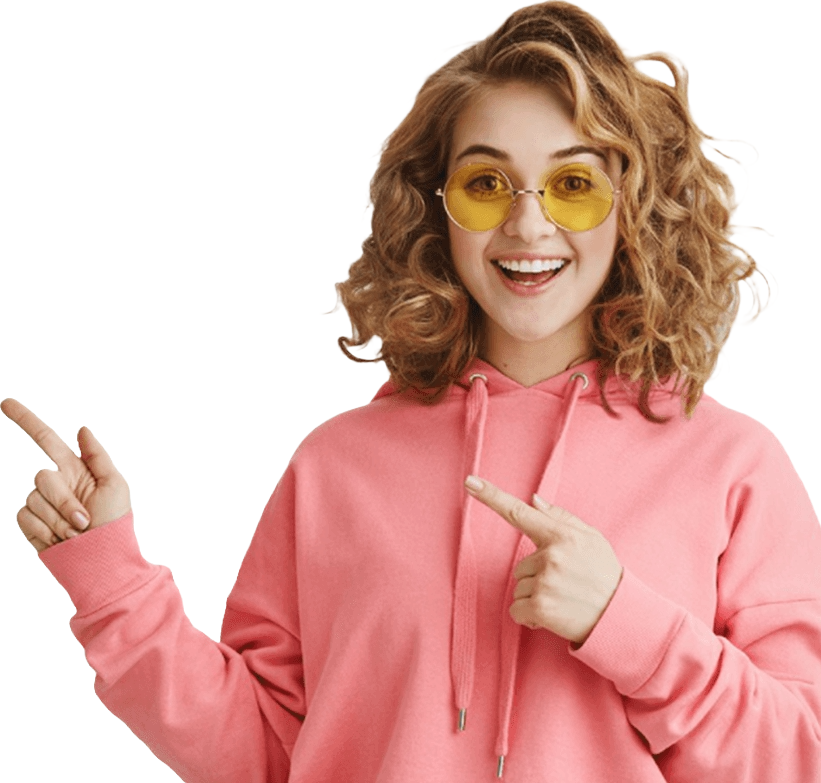
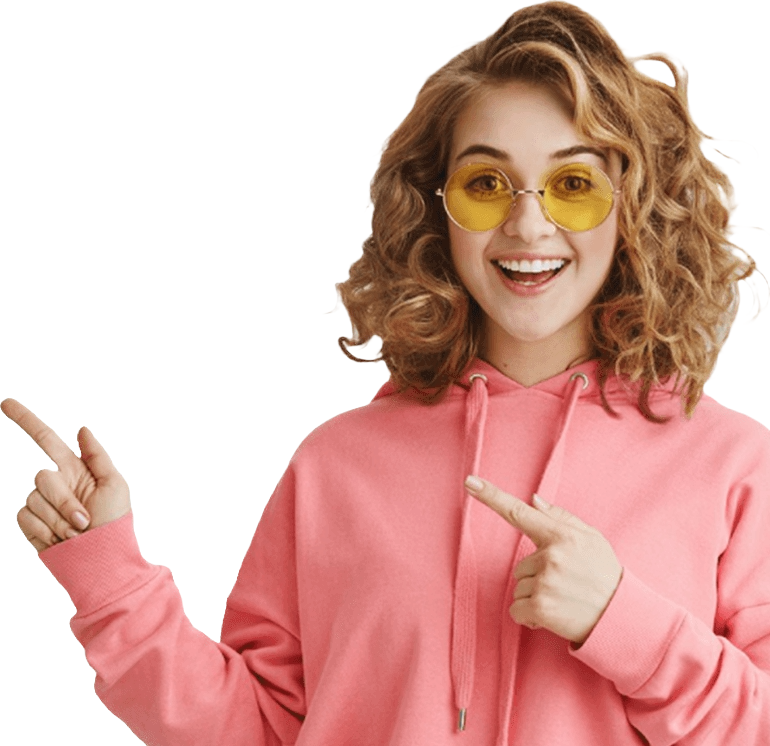
ProductCarousel style changed

diff --git a/frontend/src/components/ProductCarousel.js b/frontend/src/components/ProductCarousel.js
@@ -3,7 +3,7 @@ import { Carousel, Image, Col, Row, Container } from 'react-bootstrap';
 import Message from './Message';
 import Loader from './Loader';
 import { useGetTopProductsQuery } from '../slices/productsApiSlice';
-import homeImg from '../assets/home.png';
+import homeImg from '../assets/home2.png';
 
 const ProductCarousel = () => {
   const { data: products, isLoading, error } = useGetTopProductsQuery();
@@ -20,17 +20,17 @@ const ProductCarousel = () => {
         }}
         className="py-2"
       >
-        <Col lg={4} xs={5}>
+        <Col lg={4} xs={6}>
           <Carousel pause="hover">
             {products.map((product) => (
               <Carousel.Item key={product._id}>
                 <Link to={`/product/${product._id}`}>
                   <Image src={product.image} alt={product.name} fluid />
                   <Carousel.Caption className="carousel-caption pt-0">
-                    <h3 className="text-white text-right">
+                    <h4>
                       <span className="d-none d-md-block">{product.name}</span>{' '}
                       ${product.price}
-                    </h3>
+                    </h4>
                   </Carousel.Caption>
                 </Link>
               </Carousel.Item>
@@ -38,13 +38,12 @@ const ProductCarousel = () => {
           </Carousel>
         </Col>
 
-        <Col className="carousel-right h1" style={{ color: '#ebeff1' }}>
+        <Col className="carousel-right h1 " style={{ color: '#ebeff1' }}>
             <div>Sale 20% OFF</div>
             <div>New Arrivals</div>
           <Image
             src={homeImg}
             className=" position-absolute w-50 "
-            style={{ right: '-0', top: '0.5rem', width: '35rem' }}
           />
         </Col>
       </Row>

diff --git a/backend/data/products.js b/backend/data/products.js
@@ -8,8 +8,8 @@ const products = [
     category: "Electronics",
     price: 89.99,
     countInStock: 10,
-    rating: 4.5,
-    numReviews: 12,
+    rating: 0,
+    numReviews: 0,
   },
   {
     name: "iPhone 11 Pro 256GB Memory",
@@ -20,8 +20,8 @@ const products = [
     category: "Electronics",
     price: 599.99,
     countInStock: 7,
-    rating: 4.0,
-    numReviews: 8,
+    rating: 0,
+    numReviews: 0,
   },
   {
     name: "Cannon EOS 80D DSLR Camera",
@@ -32,8 +32,8 @@ const products = [
     category: "Electronics",
     price: 929.99,
     countInStock: 5,
-    rating: 3,
-    numReviews: 12,
+    rating: 0,
+    numReviews: 0,
   },
   {
     name: "Sony Playstation 4 Pro White Version",
@@ -44,8 +44,8 @@ const products = [
     category: "Electronics",
     price: 399.99,
     countInStock: 11,
-    rating: 5,
-    numReviews: 12,
+    rating: 0,
+    numReviews: 0,
   },
   {
     name: "Logitech G-Series Gaming Mouse",
@@ -56,8 +56,8 @@ const products = [
     category: "Electronics",
     price: 49.99,
     countInStock: 7,
-    rating: 3.5,
-    numReviews: 10,
+    rating: 0,
+    numReviews: 0,
   },
   {
     name: "Amazon Echo Dot 3rd Generation",
@@ -68,8 +68,8 @@ const products = [
     category: "Electronics",
     price: 29.99,
     countInStock: 0,
-    rating: 4,
-    numReviews: 12,
+    rating: 0,
+    numReviews: 0,
   },
 ];
 

diff --git a/frontend/src/assets/styles/index.css b/frontend/src/assets/styles/index.css
@@ -87,6 +87,13 @@ a:hover {
   opacity: .4;
 }
 
+.carousel-right img {
+   right: 0;
+   top: 1rem;
+  
+}
+
+
 .nav-header {
   position: sticky;
   top: 0;
@@ -145,6 +152,9 @@ a:hover {
   .carousel-right div {
     font-size: 1.5rem;
   }
+  .carousel-right img {
+    top: 3rem;
+ }
 }
 
 
